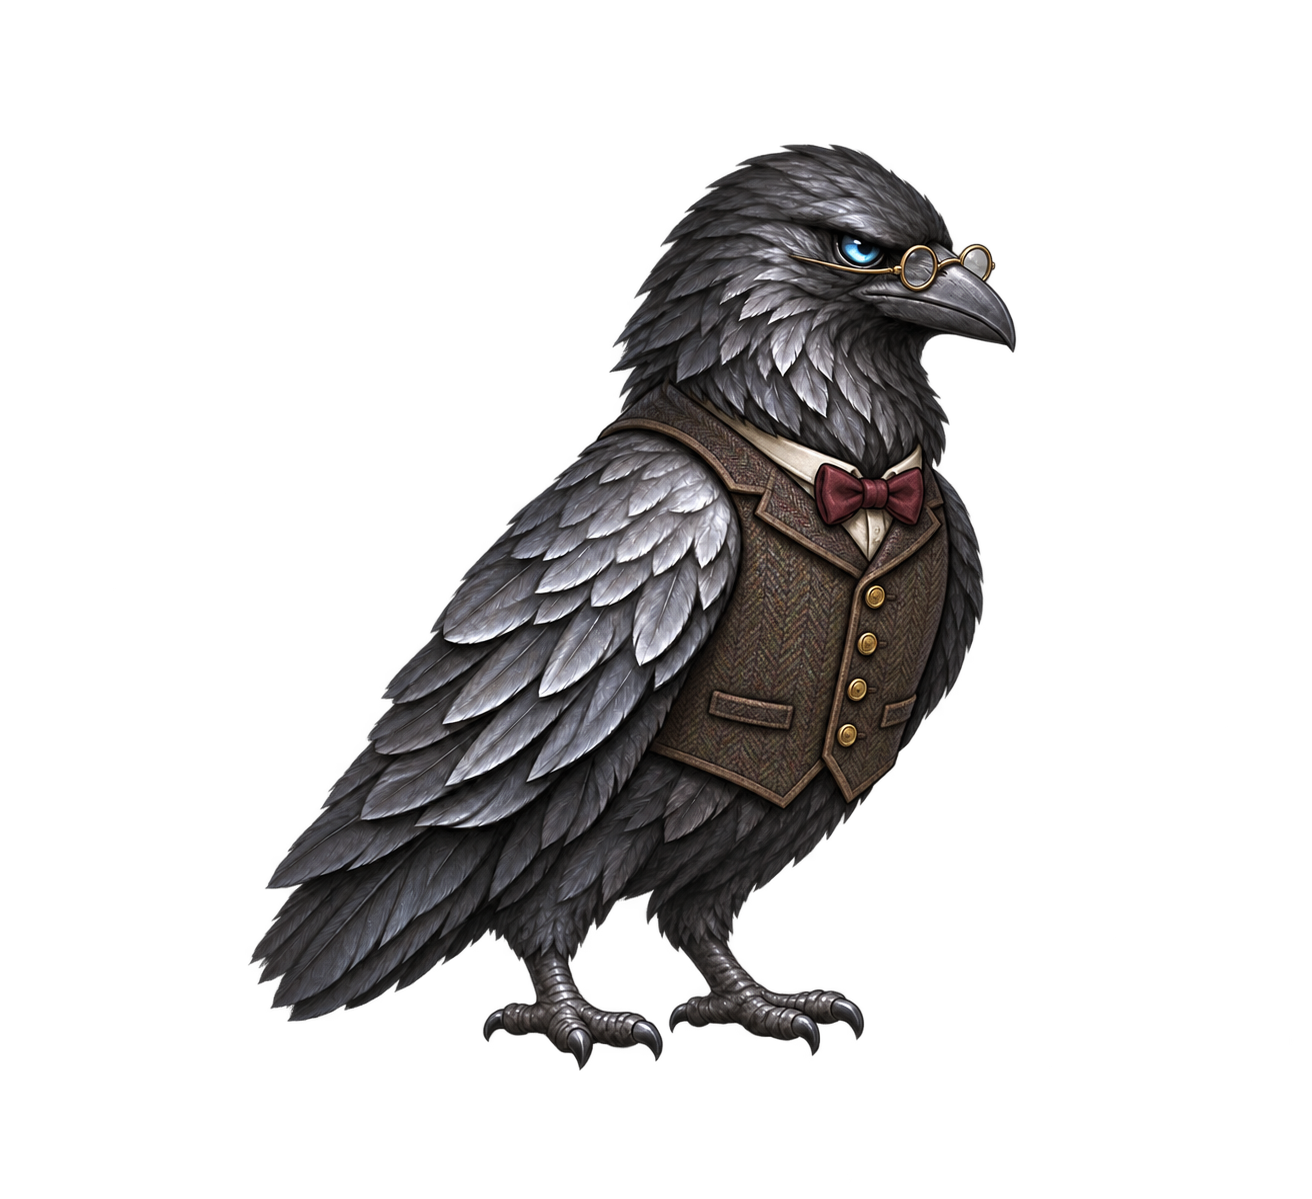
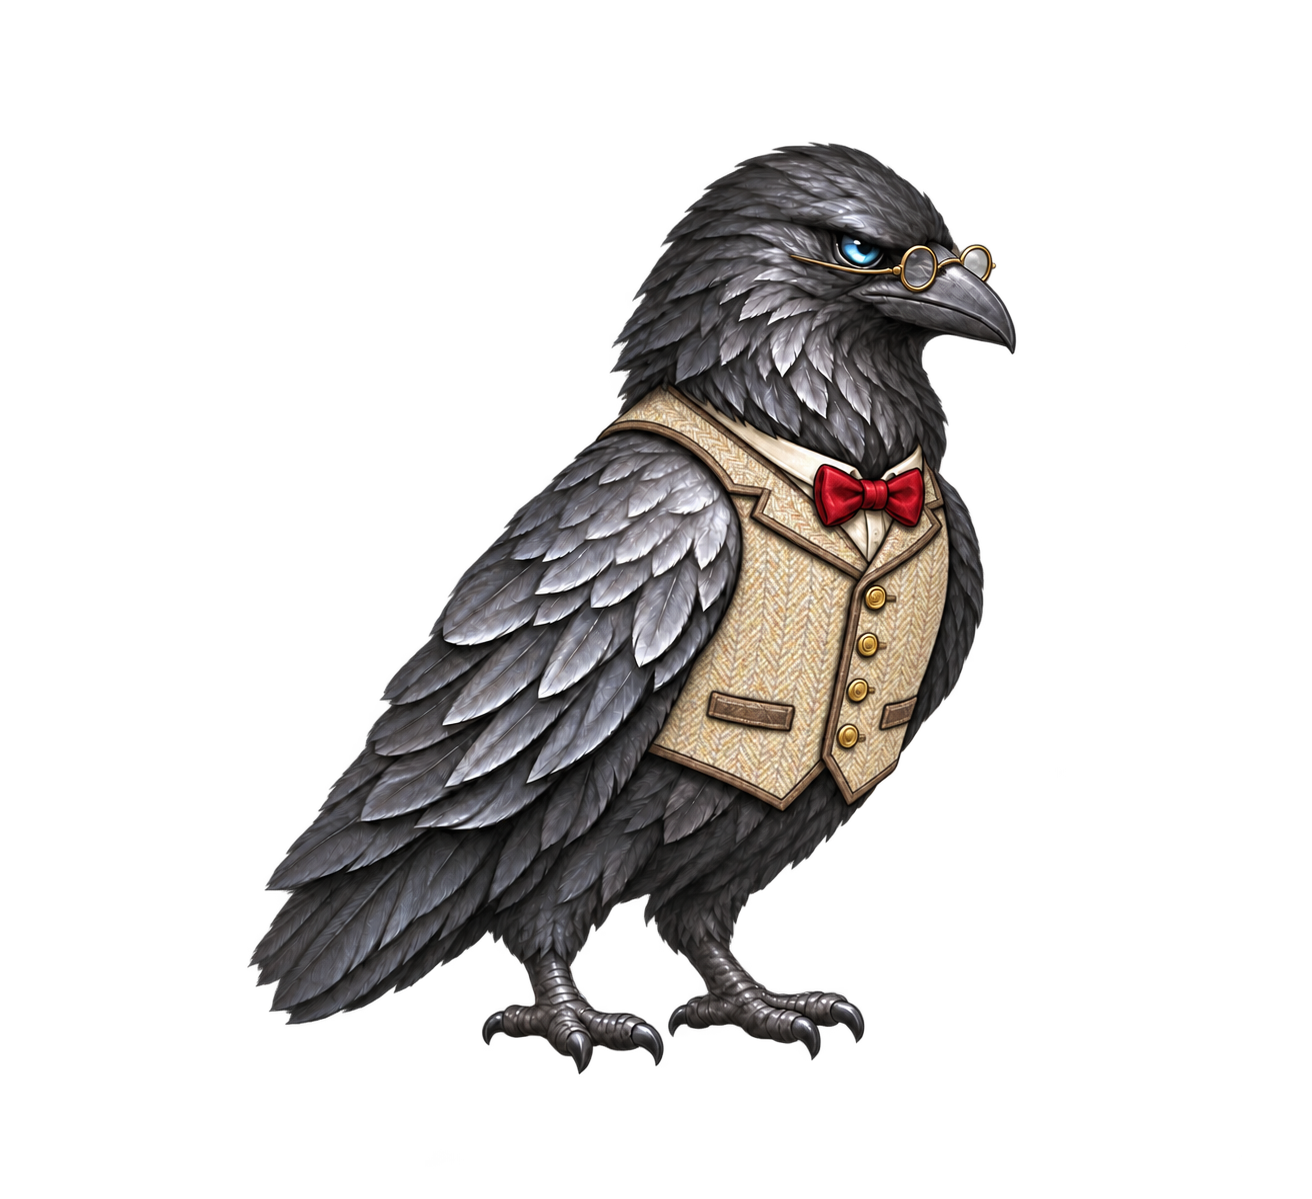
Apply approved lighter costumes and preview military Crow

diff --git a/tools/character-generator/engine/IMPERIAL-CAREER-PRESENTATION.md b/tools/character-generator/engine/IMPERIAL-CAREER-PRESENTATION.md
@@ -75,7 +75,12 @@ The sheet-centred layout study under `verification/imperial-layout-concept*`
 is deferred at the owner's request. It is not run by CI or used by application
 navigation. Existing Education/Background screen layout remains in place.
 
-The lighter outfit images under `verification/review-assets` and their
-`crow-outfit-contrast-browser.mjs` comparison are review-only. They do not replace
-production artwork. Comparisons render current and proposed clothing at the same
-112 × 128 phone portrait size. Technical errors retain default Crow.
+The owner approved the clearer outfit comparison at head 091c98b. The exact
+shown lighter images now occupy the existing technician/professor/referee asset
+paths. Default Crow (`crow-pet.png`), image selection, screen layout and technical
+error behavior are unchanged. Original costumes are retained under
+`verification/review-assets/*-before.png`; the comparison renders previous and
+approved artwork at the same 112 × 128 phone portrait size.
+
+Military Crow remains a review-only draft under `verification/review-assets`; it
+has no production image mapping pending owner visual approval.
